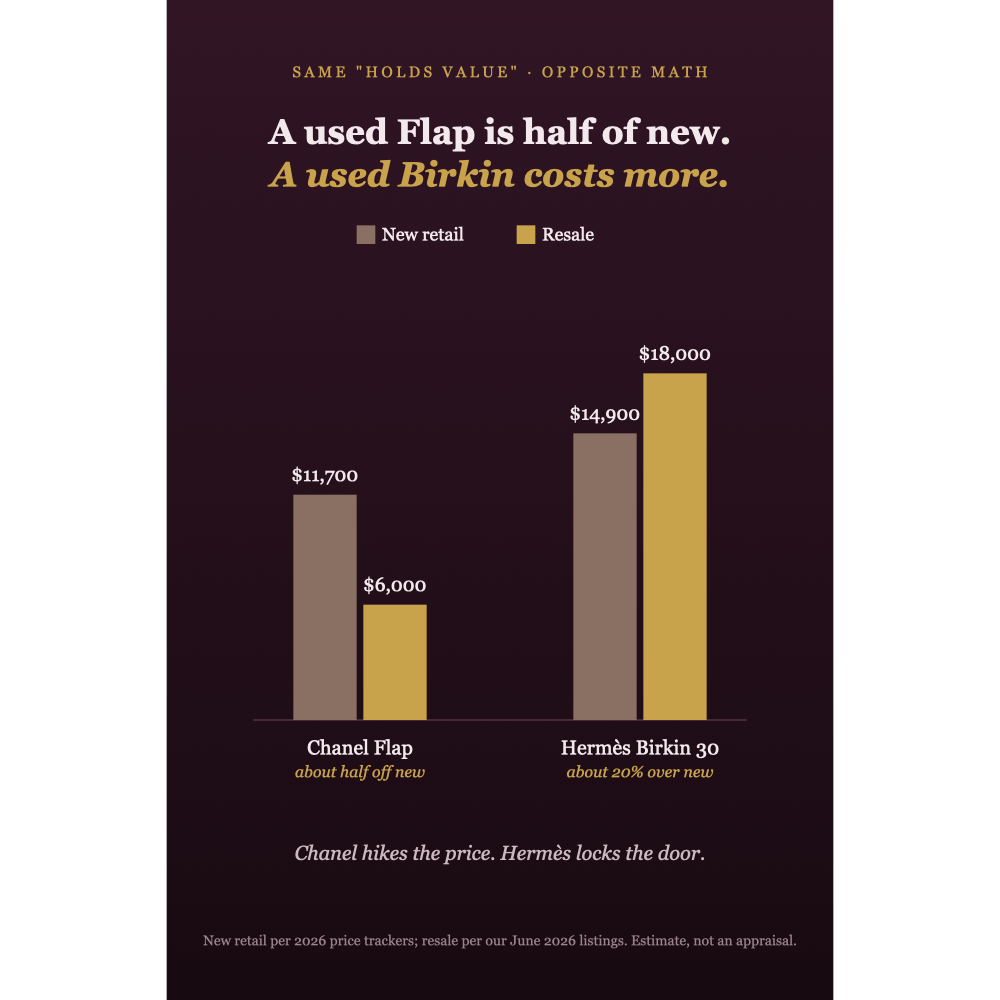
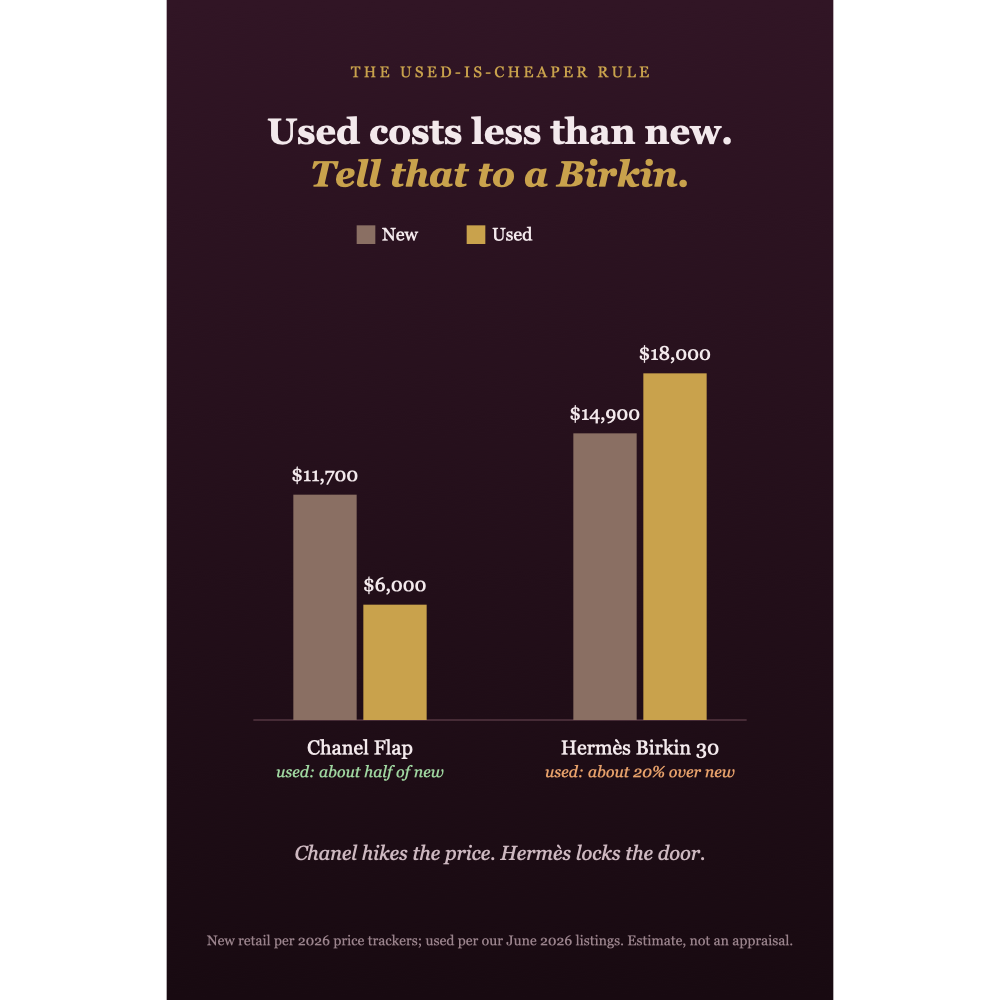
content(social): clarify Chanel-vs-Hermes (one reference: used vs new; lead with the rule, break it)

diff --git a/assets/social/2026-06-launch/chanel-vs-hermes-post.md b/assets/social/2026-06-launch/chanel-vs-hermes-post.md
@@ -1,44 +1,44 @@
 # Post — Chanel vs Hermès: two opposite ways to "hold value"
 
-Status: DRAFTED 2026-06-30 (from owner's question). Pillar: honest money / authority. Persona: Maya + Diane + Sofia.
+Status: DRAFTED 2026-06-30 (clarity rewrite: one reference, used vs new). Pillar: honest money / authority. Persona: Maya + Diane + Sofia.
 Destination (interim): https://www.luxurycatalog.com/articles/are-designer-bags-a-good-investment
-GAP TO COMMISSION: a dedicated "Chanel vs Hermès: two ways to hold value" article (this insight deserves its own page).
-Visual: assets/social/2026-06-launch/chanel-vs-hermes-resale.svg (new-vs-resale, both houses)
-Facts + sources:
-- Chanel Med Flap retail ~$2,850 (2010) → ~$11,700 (2026); ~9-10%/yr long-run, ~2x in 5yr. (luxuryevermore; Sotheby's)
-- Birkin 30 retail ~$10,900 (2018) → ~$14,900 (2026); single-digit yearly, 16% spike 2024. (awisee/XIAOMA)
-- Resale: Chanel Flap ~$6,000, Birkin 30 ~$18,000 (our June 2026 listings). Birkin +92% resale over 10yr; Hermès 138% retention (Rebag Clair 2025). Quota: 2 bags/yr.
-- HEDGE: new retail = third-party 2026 trackers (Hermès prices in EUR, FX caveat); resale = our June 2026 tracking; appreciation = Rebag. Estimate, not a forecast/appraisal.
+GAP TO COMMISSION: a dedicated "Chanel vs Hermès: two ways to hold value" article.
+Visual: assets/social/2026-06-launch/chanel-vs-hermes-resale.svg (used vs new, both houses)
+Facts + sources: Chanel Med Flap ~$2,850 (2010) → ~$11,700 (2026), ~9-10%/yr long-run, ~2x in 5yr (luxuryevermore, Sotheby's). Birkin 30 ~$10,900 (2018) → ~$14,900 (2026), single-digit yearly + 16% spike 2024 (awisee/XIAOMA). Used: Chanel Flap ~$6,000, Birkin 30 ~$18,000 (our June 2026 listings). Birkin +92% resale over 10yr; quota 2 bags/yr (Rebag Clair 2025). HEDGE: new retail = third-party 2026 trackers (FX caveat); used = our June 2026 tracking; appreciation = Rebag. Estimate, not a forecast/appraisal.
 
 ## Hooks (rotate)
-- A: "Chanel and Hermès both 'hold value.' Buy either one pre-owned and the math is opposite, and almost nobody explains why."
-- B: "A used Chanel Flap costs half of new. A used Birkin costs MORE than new. Same reputation, totally different game."
-- C: "Chanel raised the Flap's price faster than Hermès raised the Birkin's. So why is the Birkin the one that actually appreciates?"
+- A: "Used is always cheaper than new, right? Tell that to a Birkin."
+- B: "A used Chanel costs less than new. A used Birkin costs more than new. Same reputation, opposite math."
+- C: "Chanel raised the Flap's price faster than Hermès raised the Birkin's. So why is the Birkin the one that appreciates?"
 
-## TikTok / Reel (open with a hook; it's a 60-90s explainer)
-> Both of these "hold value." But here's the part nobody explains. A Chanel Classic Flap is about $11,700 new. Buy it gently used? Around $6,000. Half. The Birkin 30 is about $14,900 new. Gently used? Around $18,000. More than new.
+## TikTok / Reel (open with a hook; 60-90s explainer)
+> Used is supposed to be cheaper than new. With a Chanel Flap, sure: about $11,700 new, around $6,000 used. Half off, exactly what you'd expect.
 >
-> Same reputation, opposite math. And it's not because Chanel is cheap. Chanel actually raised its price faster, the Flap nearly doubled in five years. Hermès raised the Birkin slower.
+> But a Birkin breaks the rule. About $14,900 new, around $18,000 used. You pay more for the used one.
 >
-> The difference is the door. You can walk into Chanel and buy a Flap, so resale stays below the boutique. You usually can't just buy a Birkin, there's a quota, two bags a year, the relationships, the wait. So the resale market becomes the real market, and it sits above retail. Over the last decade the Birkin appreciated around 92%.
+> Same "holds value" reputation, opposite math. And it's not because Chanel is cheap. Chanel actually raised its price faster, the Flap nearly doubled in five years.
 >
-> So Chanel manufactures value with the price tag. Hermès does it with scarcity. Want a Flap? Pre-owned saves you money. Want a Birkin? Pre-owned is just the price of skipping the line.
+> The difference is the door. You can walk into Chanel and buy a Flap, so used stays below the boutique. You usually can't just buy a Birkin, two bags a year, by allocation, the wait. So the used market becomes the real market, and it sits above retail. Over the last decade the Birkin appreciated around 92%.
+>
+> So Chanel manufactures value with the price tag. Hermès does it with scarcity. Want a Flap? Used saves you money. Want a Birkin? Used is just the price of skipping the line.
 
 **Outro:** Full breakdown at the link. Follow for real bag data with the gatekeeping cut out, LuxuryCatalog.com.
 
 ## Instagram caption
-> Chanel and Hermès both "hold value." But buy either one pre-owned and the math is opposite.
+> Used is supposed to be cheaper than new. A Birkin didn't get the memo.
 >
-> A Chanel Flap is about $11,700 new and around $6,000 used, half off. A Birkin 30 is about $14,900 new and around $18,000 used, more than new. And the twist: Chanel raised its price faster (the Flap nearly doubled in five years); Hermès raised the Birkin slower.
+> A Chanel Flap is about $11,700 new and around $6,000 used, half off, exactly what you'd expect. A Birkin 30 is about $14,900 new and around $18,000 used. You pay more for the used one.
 >
-> The difference isn't the price tag, it's the door. You can buy a Flap new, so resale stays below boutique. You usually can't buy a Birkin new (two bags a year, by allocation), so resale becomes the real market and trades above retail. Per Rebag, the Birkin appreciated around 92% over the last decade.
+> Same "holds value" reputation, opposite math. And the twist: Chanel raised its price faster (the Flap nearly doubled in five years); Hermès raised the Birkin slower.
+>
+> The difference isn't the price tag, it's the door. You can buy a Flap new, so used stays below boutique. You usually can't buy a Birkin new (two bags a year, by allocation), so the used market becomes the real one and trades above retail. Per Rebag, the Birkin appreciated around 92% over the last decade.
 >
 > Chanel manufactures value with price hikes. Hermès does it with scarcity. That's the whole game.
 >
-> New retail per 2026 price trackers; resale per our June 2026 listings; appreciation per Rebag's 2025 report. An estimate of the market, not a forecast or an appraisal. From a collector and researcher at LuxuryCatalog.com.
+> New retail per 2026 price trackers; used per our June 2026 listings; appreciation per Rebag's 2025 report. An estimate of the market, not a forecast or an appraisal. From a collector and researcher at LuxuryCatalog.com.
 
 `#chanel #hermes #birkin #classicflap #luxuryresale #handbaginvestment #bagtok #quietluxury #handbagcollector`
 
 ## Pinterest pin
-- **Title:** Chanel vs Hermès: two opposite ways to hold value
-- **Description:** Both "hold value," but the math is opposite. A Chanel Flap is about $11,700 new and ~$6,000 used (half off). A Birkin 30 is about $14,900 new and ~$18,000 used (more than new). Chanel raised its price faster, yet its resale sits below retail because you can buy new. Hermès restricts access (two bags a year), so resale trades above retail and appreciated ~92% over a decade. Chanel hikes the price; Hermès locks the door. Full breakdown at the link.
+- **Title:** Used is cheaper than new, unless it's a Birkin
+- **Description:** A Chanel Flap is about $11,700 new and ~$6,000 used (half off, as expected). A Birkin 30 is about $14,900 new and ~$18,000 used (you pay more for the used one). Same "holds value" reputation, opposite math. Chanel raised its price faster, yet its used price sits below retail because you can buy new. Hermès restricts access (two bags a year), so used trades above retail and appreciated ~92% over a decade. Chanel hikes the price; Hermès locks the door. Full breakdown at the link.